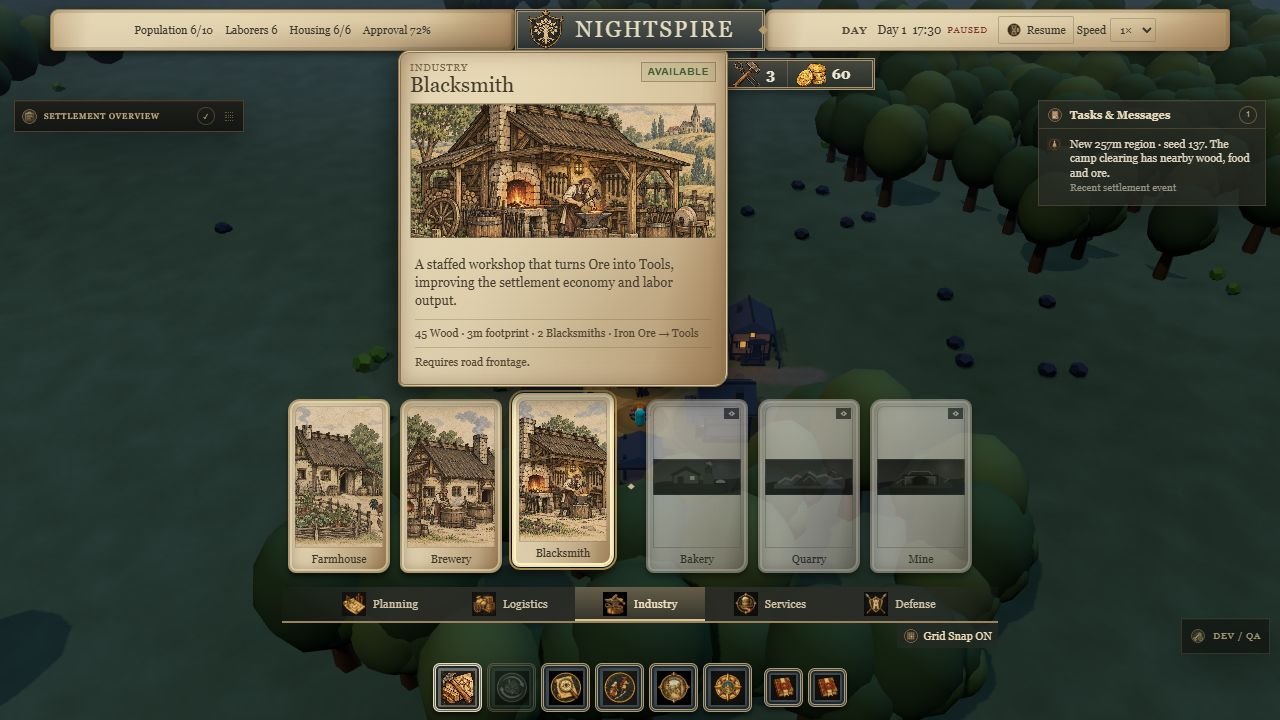
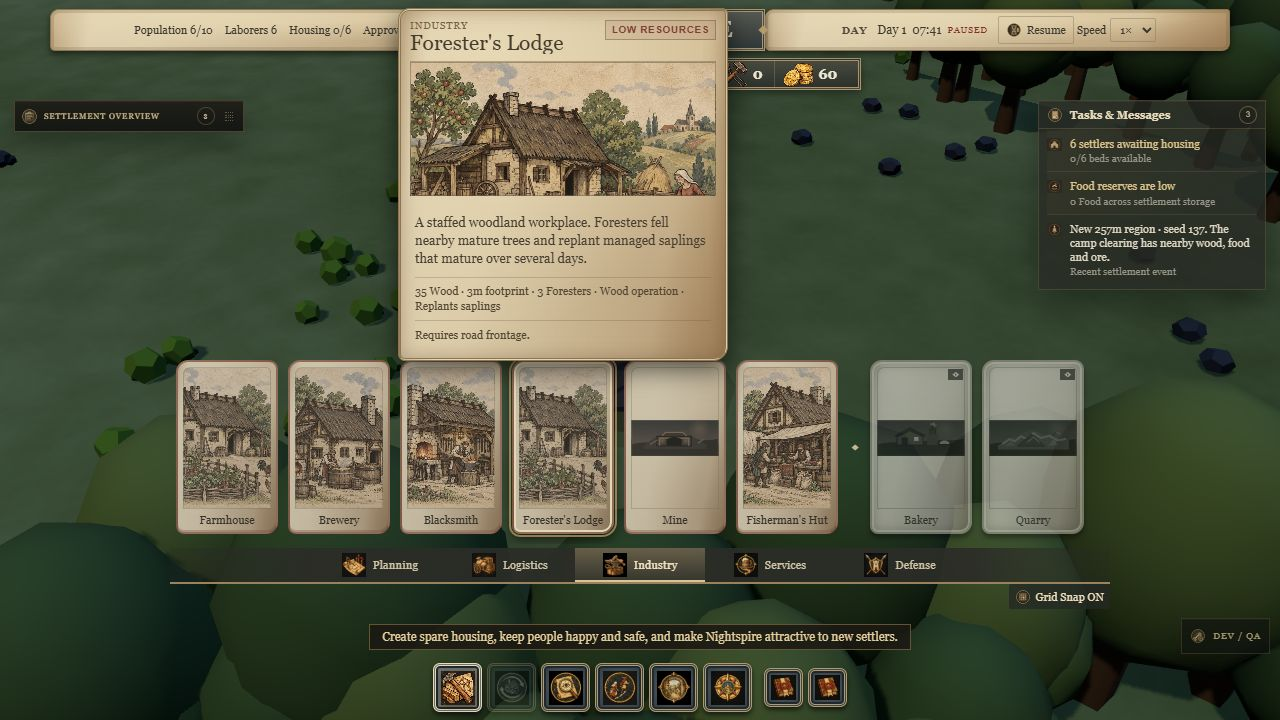
Preserve new economy artwork slots and verify integrated UI

diff --git a/src/game/ui/MedievalHud.css b/src/game/ui/MedievalHud.css
@@ -109,6 +109,19 @@
 .medieval-hud .build-card [data-art-slot="build-manor"] { background-position: 80% center; }
 .medieval-hud .build-card [data-art-slot="build-watchtower"] { background-position: 90% center; }
 .medieval-hud .build-card [data-art-slot="build-barracks"] { background-position: 100% center; }
+.medieval-hud .build-card [data-art-slot="build-mine"],
+.medieval-hud .build-card [data-art-slot="build-pleasure-house"] { background-size: 1100% 100%; }
+/* Newly integrated economy buildings reuse related artwork until dedicated art exists. */
+.medieval-hud [data-art-slot="build-foresters-lodge"],
+.medieval-hud [data-ui-asset="building-header:foresters-lodge"] { background-image: url('../../../assets/ui/building-card/farmhouse.webp'); background-size: cover; }
+.medieval-hud [data-art-slot="build-fishing-hut"],
+.medieval-hud [data-ui-asset="building-header:fishing-hut"] { background-image: url('../../../assets/ui/building-card/trading-post.webp'); background-size: cover; }
+.medieval-hud [data-art-slot="build-ore-yard"],
+.medieval-hud [data-ui-asset="building-header:ore-yard"] { background-image: url('../../../assets/ui/building-card/stockpile.webp'); background-size: cover; }
+.medieval-hud [data-ui-asset="building-header:mine"],
+.medieval-hud [data-ui-asset="building-header:pleasure-house"] { background-image: url('../../../assets/ui/building-card/planned-buildings.svg'); background-size: 1100% 100%; }
+.medieval-hud [data-ui-asset="building-header:mine"] { background-position: 30% center; }
+.medieval-hud [data-ui-asset="building-header:pleasure-house"] { background-position: 70% center; }
 .medieval-hud .build-card.is-unaffordable:not(.is-planned)::before { content: none; }
 .medieval-hud .build-name { font-size: 11px; line-height: 1.05; color: #3b3528; text-align: center; padding: 6px 0 0; white-space: normal; }
 .medieval-hud .build-card small { display: none; }
@@ -139,6 +152,8 @@
   box-shadow: inset 0 0 18px #69482f66, 0 8px 25px #0009;
 }
 .medieval-hud .build-preview-art { min-height: 0; height: 134px; border: 1px solid #76664e88; filter: saturate(.75) sepia(.1); }
+.medieval-hud .build-preview-art > span { display: none; }
+.medieval-hud .build-preview-art::after { content: none; }
 .medieval-hud .build-preview-art[data-art-slot="build-farmhouse"] { background-image: url('../../../assets/ui/building-card/farmhouse.webp'); }
 .medieval-hud .build-preview-art[data-art-slot="build-brewery"] { background-image: url('../../../assets/ui/building-card/brewery.webp'); }
 .medieval-hud .build-preview-art[data-art-slot="build-tavern"] { background-image: url('../../../assets/ui/building-card/tavern.webp'); }

diff --git a/docs/MEDIEVAL_UI.md b/docs/MEDIEVAL_UI.md
@@ -1,6 +1,6 @@
 # Medieval HUD reference pass
 
-Based on the three user-supplied Manor Lords screenshots. Starts from merged main `16d41a7`, including regional maps and current Nightspire artwork. No simulation, save, navigation, economy or renderer changes.
+Based on the three user-supplied Manor Lords screenshots. Starts from merged main `16d41a7`, then integrates newer economy and architecture patches through `8d2e328`. No simulation, save, navigation, economy or renderer changes.
 
 ## Layout and controls
 
@@ -17,7 +17,7 @@ Based on the three user-supplied Manor Lords screenshots. Starts from merged mai
 
 ## Verification
 
-- Install, typecheck, all **188 tests** and production build passed. Existing Three.js bundle-size warning remains.
+- Install, architecture check, typecheck, all **191 tests** and production build passed. Existing Three.js bundle-size warning remains.
 - Browser: 1280×720 and 800×600, category switching, horizontal shelf overflow, keyboard focus preview and Enter-to-select. Blacksmith selection entered placement; Inspect cancelled it.
 - Blacksmith assignment 0 → 1 → 2 (plus disabled at capacity), removal 2 → 1, People/Advanced/General tabs, demolition action in Advanced, live operation disclosure and panel dragging checked.
 - Final production screenshots captured; no console errors. Missing first-batch preview images and low-contrast text found during QA were fixed.
@@ -29,6 +29,6 @@ Based on the three user-supplied Manor Lords screenshots. Starts from merged mai
 
 ## Limits and review
 
-Screenshots use the existing staged QA town. Portrait cards crop landscape illustrations; custom portrait manuscript artwork would improve the reference match. Planned art remains subdued. Desktop is the target, not a touch/mobile conversion; the existing small-window rule hides Tasks. No foreground GPU or long-session performance claim is made.
+The workplace screenshot uses the existing staged QA town; the construction screenshot shows the latest integrated catalog. Forester, fishing and Ore Yard temporarily reuse related existing illustrations, while Mine and Pleasure House use their existing sprite artwork. Portrait cards crop landscape illustrations; custom portrait manuscript artwork would improve the reference match. Planned art remains subdued. Desktop is the target, not a touch/mobile conversion; the existing small-window rule hides Tasks. No foreground GPU or long-session performance claim is made.
 
 Next review: compare the shelf at 1280×720 and 1920×1080, inspect staffed and unfinished buildings, and inspect house/trade/stockpile detail panes. Follow with portrait-format artwork and spacing refinements.

diff --git a/docs/MILESTONES.md b/docs/MILESTONES.md
@@ -2,7 +2,7 @@
 
 ## Medieval HUD reference pass — ready for visual review
 
-Parchment header/resource rail, portrait construction shelf and focus preview, square command buttons, illustrated three-tab building panels and quick workplace staffing controls. Simulation unchanged. Install/typecheck/188 tests/build passed; production browser checked at desktop and compact sizes. See [verification and screenshots](MEDIEVAL_UI.md). Portrait-format art and wider visual review remain follow-up work.
+Parchment header/resource rail, portrait construction shelf and focus preview, square command buttons, illustrated three-tab building panels and quick workplace staffing controls. Simulation unchanged. Install/typecheck/191 tests/build passed; production browser checked at desktop and compact sizes. See [verification and screenshots](MEDIEVAL_UI.md). Portrait-format art and wider visual review remain follow-up work.
 
 ## M0 — Foundation (complete)
 
